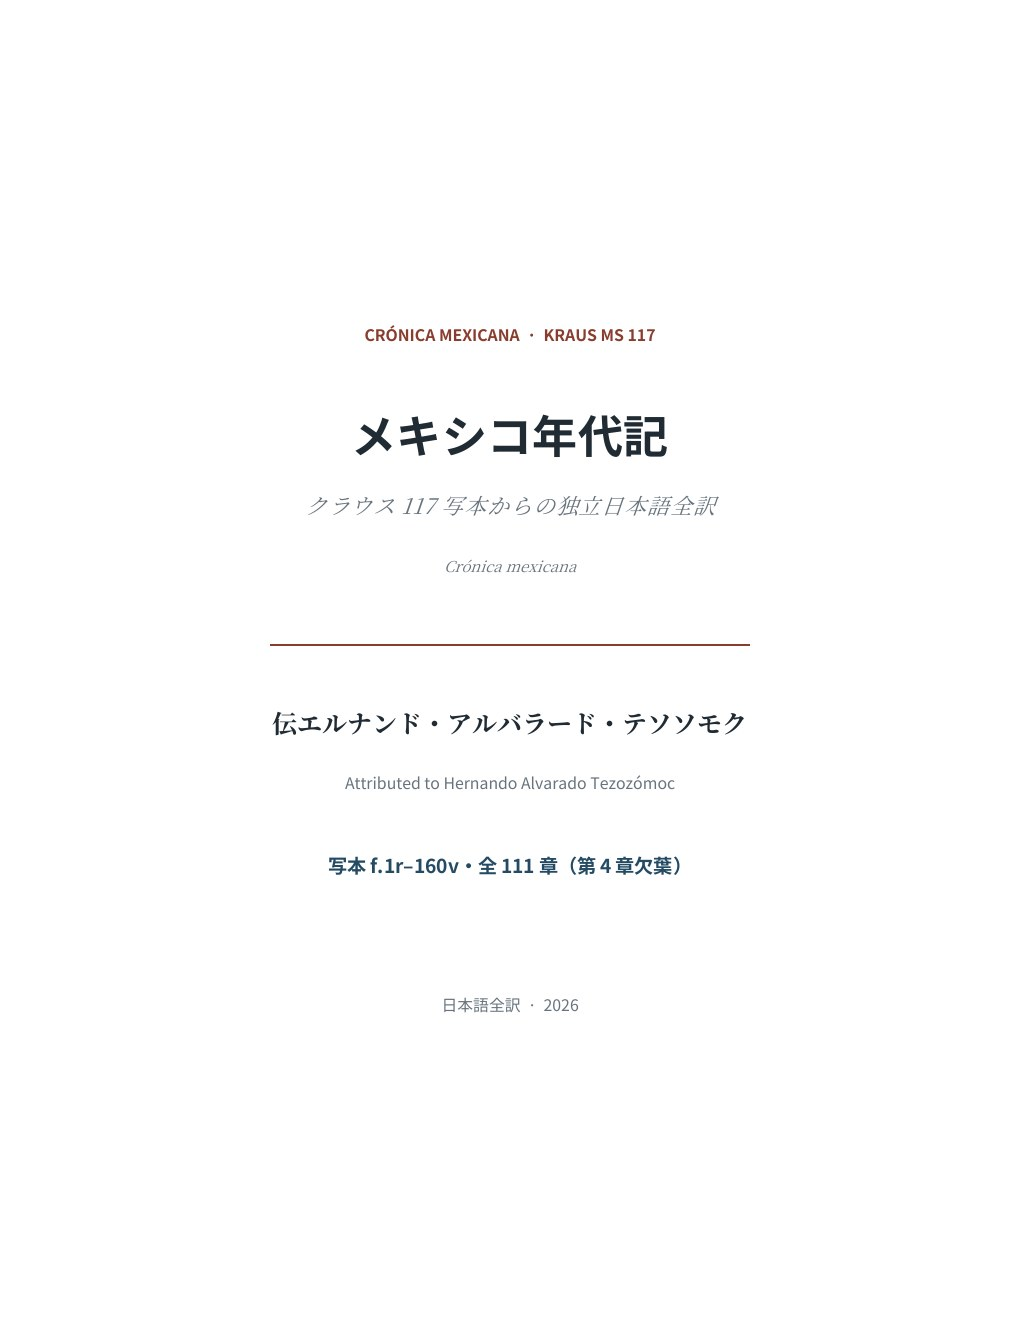
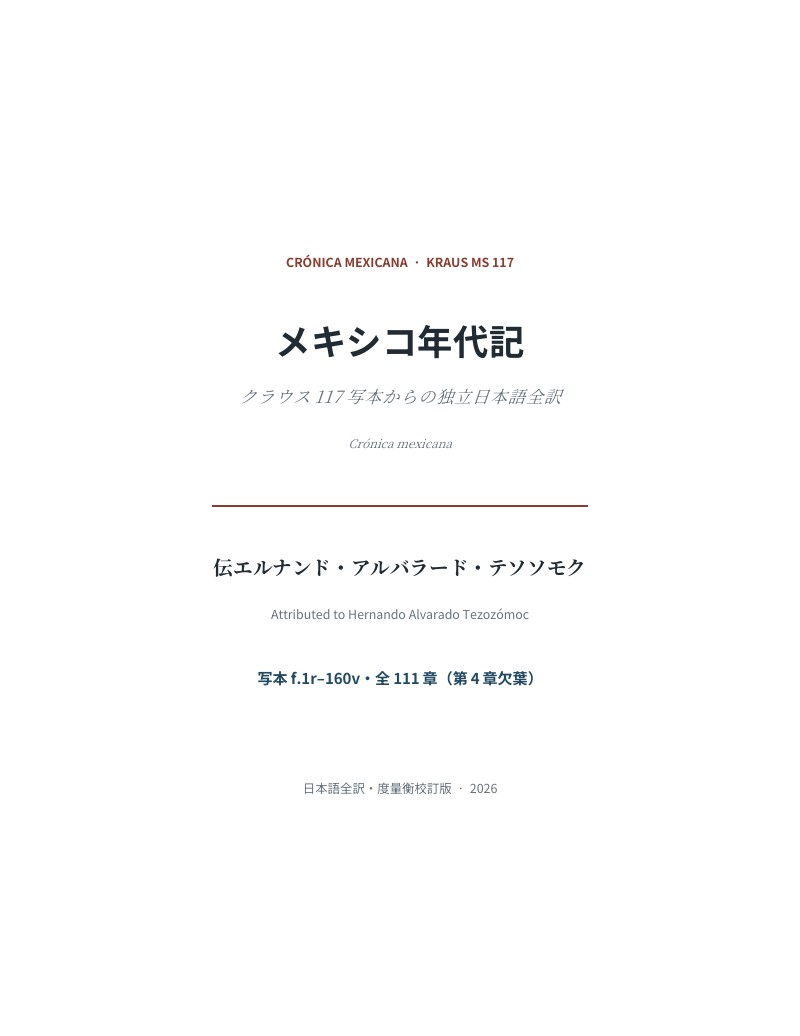
Publish Tezozomoc measurement-corrected edition

diff --git a/REVISION_LOG.md b/REVISION_LOG.md
@@ -1,5 +1,42 @@
 # 改訂記録
 
+## 2026-08-13 — `tezozomoc-cronica-mexicana-kraus-117` 度量衡校訂
+
+### 修正内容
+
+- クラウス117写本の度量衡表現を外部翻訳へ合わせず、写本画像とスペイン語本文に独自再照合した。
+- 原文 `braça` を誤って「バラ」とした32例を「ブラサ」へ訂正した。
+- 原文が実際に `vara` である4例は「バラ」のまま維持した。
+- f.46v「九十〔ブラサ〕」、f.91v「豆二万〔ファネガ〕」、f.66v「百六十エスタド」は、
+  数値・単位とも写本本文どおりと確認して維持した。
+- slug、公開URL、PDF・EPUBのファイル名は維持した。
+
+### 正本と公開物
+
+- ファンコート固定母版:
[1 lines of base64/hex data omitted]
+- 非公開正本Release:
+  `master-tezozomoc-cronica-mexicana-kraus-117-20260813-v1`
+- 非公開正本台帳コミット:
+  `5a2557216e326c51c30a749d971288332b74046d`
+- DOCX正本:
+  427,641 bytes /
[1 lines of base64/hex data omitted]
+- PDF:
+  3,709,294 bytes / 470頁 /
[1 lines of base64/hex data omitted]
+- EPUB:
+  632,593 bytes /
[1 lines of base64/hex data omitted]
+
+### 検証
+
+- ファンコート固定母版の表紙13段落、段落・文字書式、XML条件を保持した。
+- PDF全470頁を画像化し、文字欠落、重なり、裁ち落ち、空白頁の異常がないことを確認した。
+- PDFはLetter判、固定Noto日本語フォント4書体のみを埋め込み、EPUB 3の構造、目次、
+  spine、内部参照を検証した。
+- 度量衡の訂正はDOCX・PDF抽出本文・EPUB本文で一致し、旧誤記が残っていないことを確認した。
+
 ## 2026-08-13 — `castillo-historias-mexicanos-conquista-1908` 新規公開
 
 ### 公開内容
